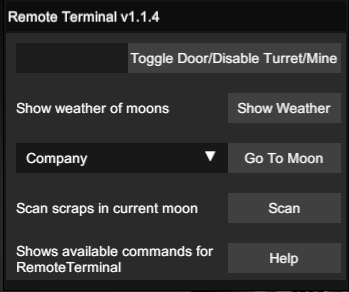
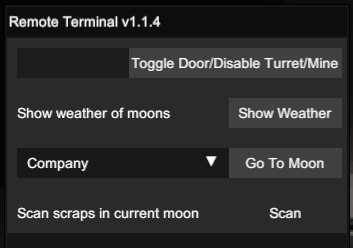
Removed Help

diff --git a/LCRemoteTerminal/Patches/HUDManagerPatch.cs b/LCRemoteTerminal/Patches/HUDManagerPatch.cs
@@ -17,28 +17,6 @@ namespace RemoteTerminal.Patches
 
         static Terminal terminal;
 
-        [HarmonyPatch("SubmitChat_performed")]
-        [HarmonyPrefix]
-        static void interceptTextChat(ref TMPro.TMP_InputField ___chatTextField)
-        {
-            String[] chatInput = ___chatTextField.text.Split(' ');
-
-            switch (chatInput[0])
-            {
-                case "/rt":
-                case "/moons":
-                    useTerminal(chatInput, ref ___chatTextField);
-                    break;
-                case "/scan":
-                    scanItems(ref ___chatTextField);
-                    break;
-                case "/help":
-                    help(ref ___chatTextField);
-                    break;
-            }
-        }
-
-
         [HarmonyPatch("Update")]
         [HarmonyPrefix]
         static void updatePatch()
@@ -151,23 +129,5 @@ namespace RemoteTerminal.Patches
                 ___chatTextField.text = "";
         }
         #endregion
-
-        public static void help()
-        {
-            TMP_InputField temp = null;
-            help(ref temp);
-        }
-
-        public static void help(ref TMPro.TMP_InputField ___chatTextField)
-        {
-            Utils.displayMessage($"Remote Terminal v{RemoteTerminalBase.modVersion}", "<size=60%>/rt [door/turret] </size><size=50%>Open/close doors; Disable turret</size>\n" +
-                "<size=60%>/moons </size><size=50%>List moon weathers</size>\n" +
-                "<size=60%>/moons [moonName] </size><size=50%>Reroute to moon</size>\n" +
-                "<size=60%>/scan </size><size=50%>Scan objects</size>\n" +
-                "<size=60%>/tp </size><size=50%>Activate teleporter</size>");
-
-            if (___chatTextField != null)
-                ___chatTextField.text = "";
-        }
     }
 }

diff --git a/LCCheater/Patches/HUDManagerPatch.cs b/LCCheater/Patches/HUDManagerPatch.cs
@@ -15,38 +15,6 @@ namespace LethalCheater.Patches
         static Terminal terminal;
         static ShipTeleporter[] shipTeleporters;
 
-        [HarmonyPatch("SubmitChat_performed")]
-        [HarmonyPrefix]
-        static void interceptTextChat(ref TMPro.TMP_InputField ___chatTextField)
-        {
-            String[] chatInput = ___chatTextField.text.Split(' ');
-
-            switch (chatInput[0])
-            {
-                case "/credits":
-                    addCredits(chatInput, ref ___chatTextField);
-                    break;
-                case "/tp":
-                    teleportOut(ref ___chatTextField);
-                    break;
-                case "/lights":
-                    toggleLights(ref ___chatTextField);
-                    break;
-                case "/fire":
-                    killPlayer(ref ___chatTextField);
-                    break;
-                case "/quota":
-                    autoQuota(ref ___chatTextField);
-                    break;
-                case "/god":
-                    toggleGodMode(ref ___chatTextField);
-                    break;
-                case "/is":
-                    toggleInfiniteSprint(ref ___chatTextField);
-                    break;
-            }
-        }
-
         [HarmonyPatch("Update")]
         [HarmonyPrefix]
         static void updatePatch()

diff --git a/LCRemoteTerminal/RTUI.cs b/LCRemoteTerminal/RTUI.cs
@@ -16,7 +16,7 @@ namespace RemoteTerminal
         public override int MinWidth => 200;
         public override int MinHeight => 200;
         public override Vector2 DefaultAnchorMin => new Vector2(0.1f, 0.1f);
-        public override Vector2 DefaultAnchorMax => new Vector2(0.28f, 0.37f);
+        public override Vector2 DefaultAnchorMax => new Vector2(0.28f, 0.33f);
         public override Vector2 DefaultPosition => new Vector2(100, 220);
         public override bool CanDragAndResize => true;
 
@@ -50,9 +50,6 @@ namespace RemoteTerminal
 
             UIUtils.CreateButtonWithLabel(vLayout, "Scan", "Scan scraps in current moon", "Scan").OnClick = () => {
                 HUDManagerPatch.scanItems();
-            };
-            UIUtils.CreateButtonWithLabel(vLayout, "Help", "Shows available commands for RemoteTerminal", "Help").OnClick = () => {
-                HUDManagerPatch.help();
             };
 
             terminalButton.OnClick = () =>
